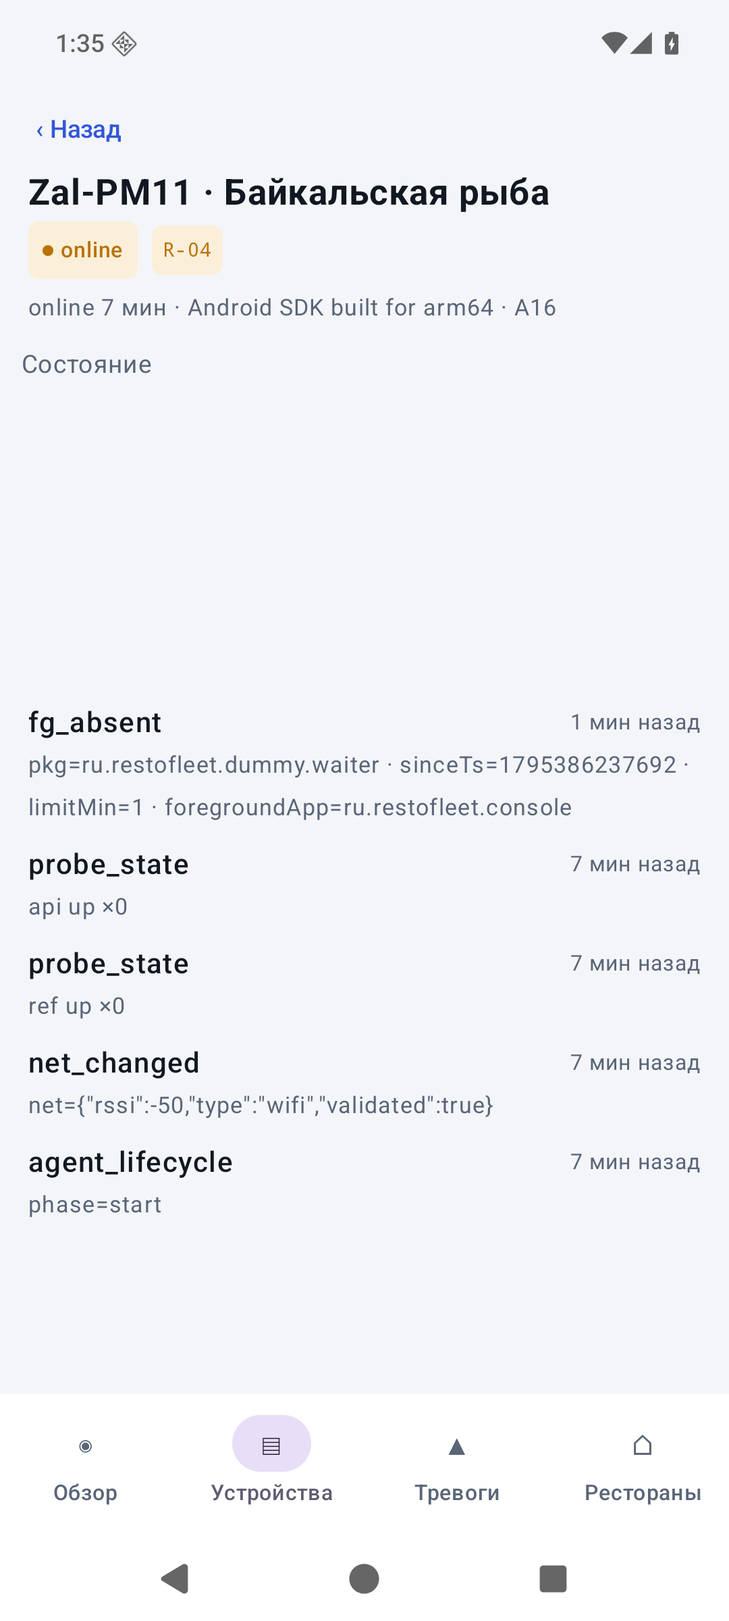
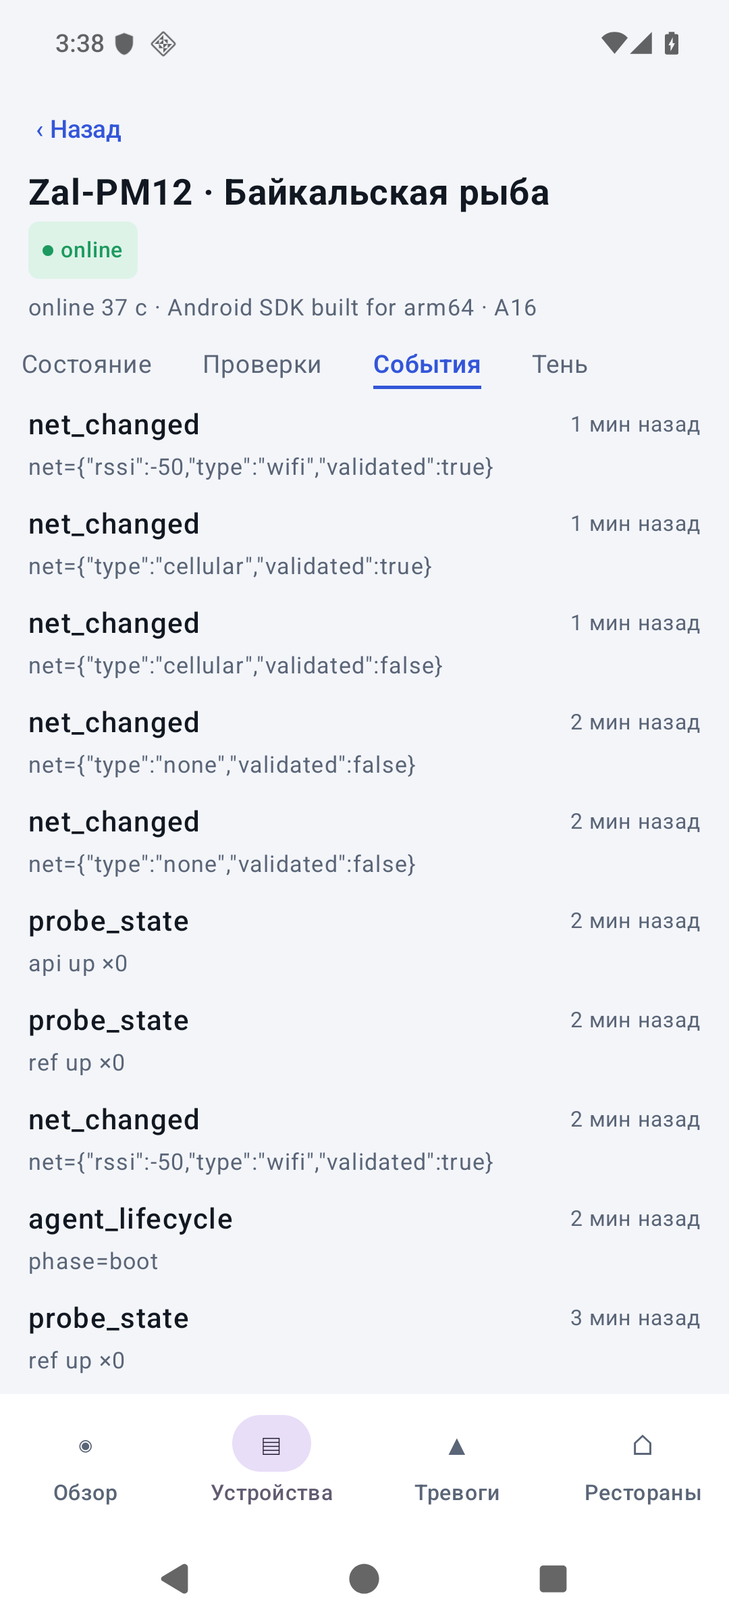
docs(practice): re-verification after PM12 — accuracy 96/96, V-11, V-12, rulings 559-562

diff --git a/docs/reports/2-practice/validation.md b/docs/reports/2-practice/validation.md
@@ -4,7 +4,7 @@
 
 ## Итог
 
-**Не принято без ПМ12.** Бэкенд и агент прошли сценарии на стенде: S8 а/б/в, S2, S3, S5, S6, S7, вход и сессии, WS через nginx с 4401. Точность классификатора по инструменту — **86,5 %, цель 90 % не достигнута**; все 13 ошибок — дефекты оценки и хранения состава инцидента (V-5, V-6), после их устранения пересчёт даёт 93,8 % и 96/96 (реш. 510). Находка 469 на стенде не воспроизвелась. Android-консоль работает через REST, но в живой среде найдены три Critical: падение обзора (V-1), WebSocket консоли не подключается ни разу (V-2), вкладки карточки устройства и статусов тревог не видны (V-3). Поэтому «обновление по WS» в консоли не проверено, а S1–S7 пройдены из консоли с обходами (перезапуск приложения, нажатие невидимых вкладок по координатам).
+**Не принято без ПМ12** (после ПМ12 — см. «Перепроверка после ПМ12»: Critical V-1…V-3 закрыты, точность второго прогона 100 %). Бэкенд и агент прошли сценарии на стенде: S8 а/б/в, S2, S3, S5, S6, S7, вход и сессии, WS через nginx с 4401. Точность классификатора по инструменту — **86,5 %, цель 90 % не достигнута**; все 13 ошибок — дефекты оценки и хранения состава инцидента (V-5, V-6), после их устранения пересчёт даёт 93,8 % и 96/96 (реш. 510). Находка 469 на стенде не воспроизвелась. Android-консоль работает через REST, но в живой среде найдены три Critical: падение обзора (V-1), WebSocket консоли не подключается ни разу (V-2), вкладки карточки устройства и статусов тревог не видны (V-3). Поэтому «обновление по WS» в консоли не проверено, а S1–S7 пройдены из консоли с обходами (перезапуск приложения, нажатие невидимых вкладок по координатам).
 
 ## Результаты
 
@@ -96,6 +96,52 @@
 
 `docs/reports/2-practice/img/`: `p-android-01-login`, `02-dashboard-r08`, `02b-dashboard-accuracy`, `03-incidents`, `03b-incidents-accuracy`, `04-incident-r08`, `04b-incident-r09`, `05-provisioning-code` (код закрашен), `06-devices`, `07-device-state`, `08-shadow`, `09-shadow-applied`, `10-events`, `11-checks`, `12-commands`, `13-alerts`, `14-alerts-resolved-auto`, `15-alert-resolve-dialog`, `16-restaurants`, `17-command-expired`, `18-agent-status`; `p-desktop-01-login`. В `docs/practice/img/` не копировались — выбор для отчёта делает ПМ13.
 
+## Перепроверка после ПМ12
+
+HEAD `5bcd6cd` (исправления `P-fixes.md`, гейт rc=0). Только шаги, затронутые исправлениями; находка 469 не повторялась. Стенд пересобран: `prepare-stand.sh` (образ бэкенда) rc=0, образ симулятора rc=0, `up --wait` rc=0; консоль пересобрана, агент в ПМ12 не менялся. Агент `Zal2-PM11` (порт 18883) удалён, вместо него из консоли зарегистрирован `Zal-PM12` (NSK-02, «Зал», брокер `10.0.2.2:8883`). Решения — 559–561.
+
+| Шаг | Исправление | Результат | Цифры и факты |
+|---|---|---|---|
+| R1 миграция V4 | RV-4 | ✅ | `migrate` при подъёме: «Successfully applied 1 migration … now at version v4»; `flyway_schema_history` — 1…4, все `success`; `refresh_tokens.rotated_from uuid` |
+| R2 `test-backend.sh` | V-10 | ❌ **V-11** / ✅ V-10 | оригинал падает оба раза на шаге 2a «повтор погашенного refresh не 401» (скрипт ждёт 401 сразу, а RV-4 даёт 60 с); временная копия вне репозитория с паузой 61 с перед повтором — 24/24 PASS дважды, после двух прогонов один ресторан `SMOKE` (11 старых `SMOKE-*` не трогались) |
+| R3 refresh | RV-4 | ✅ | сессия A: refresh 200 → повтор старого в окне 200 → новейший 200; сессия B того же `support` при этом — 200; сессия C: повтор через 62 с → 401, свежий C → 401, а также A и B → 401 (отозваны все refresh пользователя) |
+| R4 WS консоли | V-2, RV-2, RV-3, RV-13 | ✅ | upgrade `101 Switching Protocols`, ни одного 400/401 на `/api/v1/ws`; обзор («Ресторанов с проблемами» 0 → 12 и строки R-08), «Открытые» тревоги (R-01 за ≤ 6 с), список устройств — без перезапуска; режим полёта: карточка открыта и закрыта 3 раза — без падений, после возврата сети WS снова 101, телеметрия идёт; после 4401 в 03:50:18 — ровно один `POST /auth/refresh` и сразу 101. Отозванный refresh при запуске → экран входа |
+| R5 обзор | V-1 | ✅ | две R-01 `Zal-PM12` в 03:34:48 и 03:35:06 → перезапуск консоли: процесс жив, `FATAL` 0, в «Последних событиях» видны все строки R-01 устройства |
+| R6 вкладки | V-3 | ✅ | «Состояние · Проверки · События · Тень» и «Открытые · Подтв. · Закрытые» видны и открываются касанием; снимки пересняты |
+| R7 тень | S4, V-4 | ✅ | интервал 30 → 60 → «Сохранить» 03:39:25; через ≤ 5 с без повторного открытия: `desired v2 · reported v2 · delta пуста`, «Применено на устройстве» |
+| R8 S8-а | RV-1, V-6, RV-5 | ✅ | `s8-a`: один R-08, 12/12; во «Открытых» тревог нет при 72 подавленных R-05; R-08 раунда 2 `accuracy` подтверждён из консоли с комментарием в 03:46:28, закрыт в 03:46:31 — `ackBy=support` и комментарий целы после закрытия и двух следующих тиков; у закрытых R-08 — 12 ресторанов |
+| R9 тревога | RV-5 | ✅ | R-01 `Zal-PM12` подтверждена с комментарием (через API от `support`, реш. 559) → два тика → агент вернулся → `resolved`, `auto=true`, `ackBy=support`, комментарий сохранён; в «Закрытых» — метка «авто» |
+| R10 парк S8 | V-9 | ✅ с оговоркой | 72 прежних устройства S8 удалены через API (иначе 72 офлайн в тех же ресторанах → R-07), кэш удалён; `prepare` → `registered=60 failed=12` (429: лимит провижининга стенда 60/мин, **V-12**), повторный `prepare` → `cached=60 registered=12` → 6 × 12 |
+| R11 точность | V-5, V-6 | ✅ **96/96 = 100 %** | второй полный прогон 40 мин (03:37:33–04:19:11, сид 428, 72 устройства по 6 в 12 ресторанах), `accuracy.py` с допуском только вперёд; все 5 глобальных инцидентов хранят 12 ресторанов; отдельный результат — 86,5 % первого прогона ПМ11 не переписывается (реш. 510, 562) |
+
+Матрица второго прогона (`docs/experiments/incidents/accuracy.md`, эталон `truth-accuracy-1795394254446.csv`):
+
+| эталон \\ результат | backend_global | backend_local | restaurant_network | device | none |
+|---|---|---|---|---|---|
+| backend_global | 60 | 0 | 0 | 0 | 0 |
+| backend_local | 0 | 6 | 0 | 0 | 0 |
+| restaurant_network | 0 | 0 | 3 | 0 | 0 |
+| device | 0 | 0 | 0 | 3 | 0 |
+| none | 0 | 0 | 0 | 0 | 24 |
+
+| Прогон | Когда | Инструмент | Точность |
+|---|---|---|---|
+| 1 (ПМ11) | 01:56–02:38 | допуск ±3 мин, состав сужался | 83/96 = 86,5 % |
+| 2 (после ПМ12) | 03:37–04:19 | допуск только вперёд (V-5), состав накапливается (V-6) | 96/96 = 100 % |
+
+Задержка открытия глобальных R-08 — 57–60 с от начала отказа, закрытие — через 2,5 мин после начала (как в прогоне 1).
+
+**Новые находки**
+
+| # | Уровень | Где | Что | Шаги воспроизведения |
+|---|---|---|---|---|
+| V-11 | Important | `deploy/test-backend.sh`, шаг 2a (строки 89–91) | Smoke стенда красный после RV-4: проверка ждёт 401 на немедленный повтор погашенного refresh, а сервер по реш. окна прощения отвечает 200 в течение 60 с. Блоки после 2a (в том числе `SMOKE` из V-10) не выполняются. Поведение сервера верное — устарел скрипт | `./test-backend.sh` → `FAIL: повтор погашенного refresh не 401`; с `sleep 61` перед строкой 89 — 24/24 |
+| V-12 | Minor | `run-accuracy.sh prepare` / `RegisterDevices` | Регистрация парка с нуля превышает лимит провижининга стенда (`RF_RATELIMIT_PROVISIONPERMINUTE=60`): 12 из 72 — 429, без повтора; дорегистрация повторным `prepare` через минуту закрывает слоты | удалить `creds-s8.jsonl` (и устройства S8) → `prepare` → `failed=12`; через 60 с `prepare` → `registered=12` |
+
+**Наблюдения:** удалённые устройства остаются в списке консоли со статусом `decommissioned` (первыми при поиске `S8-0`), в классификатор не попадают (`s8-a` 12/12); поле комментария карточки инцидента многострочное — Enter экранной клавиатуры добавляет перевод строки, а не отправляет.
+
+**Снимки** (пересняты на исправленной сборке, прежние имена): `p-android-02-dashboard-r08`, `03-incidents`, `04-incident-r08`, `04b-incident-r09`, `06-devices`, `07-device-state`, `08-shadow`, `09-shadow-applied`, `10-events`, `11-checks`, `13-alerts`, `14-alerts-resolved-auto`, `15-alert-resolve-dialog` — все кадры рисунков 4.1–4.2 (`tools/practice/figures.py`: `console-main`, `console-alerts`, `console-incidents`). Остальные снимки ПМ11 не менялись.
+
 ## Прогресс
 
 - 23.11 01:05 — прочитаны план ПМ11, приёмка (разд. 7), Rulings 405, 427, 428, 462, 469, разделы «Что проверить» `P-backend.md`/`P-console.md`, README стенда, консоли, эмуляторов. Свободно 28 ГБ.
@@ -120,3 +166,4 @@
 - 02:41–02:42 — находка 469: агент остановлен, ping в 02:41:33 (`queued`), `docker compose restart mosquitto` в 02:41:36, бэкенд переподключился (`/health` broker true), агент запущен в 02:42:12 → `delivered`/`succeeded` в 02:42:14. **На стенде очередь QoS 1 офлайн-устройства рестарт брокера пережила** — потеря из Testcontainers-теста не воспроизвелась.
 - 02:43–02:47 — S2: бэкенд пересоздан с `RF_PROVISIONING_BROKERPORT=18883`, `Zal-PM11` удалён, агент сброшен и зарегистрирован заново из консоли (`Zal2-PM11`, брокер `10.0.2.2:18883`). Токсик `timeout` в обе стороны → R-01 через 28 с; снят → автозакрытие через 5 с. Бэкенд возвращён к умолчаниям (`RF_PROVISIONING_BROKERPORT=8883`), Toxiproxy без токсиков.
 - 02:48 — `logcat` за всю сессию: коды 0, пароль `support` 0, JWT 0, `refreshToken` 0. Эмулятор остановлен (`emu kill`). Созданные документы и PNG: совпадений с секретами 0. Стенд оставлен запущенным (агент `Zal2-PM11` остаётся с портом 18883 — Toxiproxy без токсиков).
+- 03:15–04:20 — перепроверка после ПМ12 (HEAD `5bcd6cd`): R1 ✅, R2 ❌ V-11 (V-10 ✅ на копии скрипта), R3 ✅, R4 ✅, R5 ✅, R6 ✅, R7 ✅, R8 ✅, R9 ✅, R10 ✅ (V-12), R11 ✅ 96/96. `logcat`: код 0, пароль 0, JWT 0. Эмулятор остановлен; стенд запущен, агент `Zal-PM12` на порту 8883, Toxiproxy без токсиков.

diff --git a/docs/reports/2-practice/decisions.md b/docs/reports/2-practice/decisions.md
@@ -165,3 +165,7 @@
 | 538 | ПМ12, V-6: состав глобального инцидента сужался, закрытый хранил последние рестораны | **`incidents.restaurants` — охват за время жизни** (объединение затронутых ресторанов): совпавший глобальный инцидент добавляет новые рестораны и не теряет восстановившиеся. «Затронуты сейчас» — в доказательствах последнего тика (`evidence.restaurants`); по ним строится сводка («Рестораны с проблемами»), чтобы восстановившийся ресторан не висел в обзоре. Подавление по-прежнему по `restaurants`: R-05 `api` ресторана, вернувшегося во время глобального отказа, подавляется тем же инцидентом (тот же отказ). Локальные инциденты совпадают только при равном составе — для них ничего не меняется | Хранить отдельный столбец охвата (миграция, второй источник правды); сужать состав, а охват считать по дочерним тревогам (у восстановившихся ресторанов тревог может не быть) | Карточка в консоли показывает 12 ресторанов для S8-а с восстановлением в разные тики, оценка точности видит весь охват. Тест `IncidentLifecycleTest` (12 → 6 восстановились → закрыт с 12, сводка — 6) |
 | 539 | ПМ12, V-1…V-4 консоли | V-1: ключ строки — id тревоги, у «проблем» — ресторан, правило, цель и устройство; повтор получает суффикс `#n` (Compose падает на любом повторе ключа). V-2 — тот же дефект, что RV-2 (реш. 533): сервер видел `Bearer X,Bearer X` и отвечал 400; теперь в upgrade ровно одно значение (`KtorWsConnectorTest`), а 400 и прочие отказы ведут в backoff. V-3: ширина вкладки `RfTabs` — по заголовку (`IntrinsicSize.Max`), строка прокручивается. V-4: события тени в WS нет, поэтому после сохранения тень перечитывается каждые 3 с, пока `pending`, не дольше 60 с (`AwaitShadowApplied`) | V-3 — равные веса (длинные заголовки обрезались бы на узком экране); V-4 — событие тени в WS (контракт и сервер — диплом) | Тесты: `DashboardScreenTest` (рендер с повтором ключа без исправления падает), `TabsTest` (без исправления ширина вкладок 0), `ShadowDomainTest`, `ShadowTest` |
 | 540 | ПМ12, Minor валидации | V-9: дорегистрация считает недостающие слоты плана по ресторану и роли (`DevicePlan.missing`), а не по числу учёток. Причина 7/5 по коду — сдвиг слотов после потерянной регистрации в середине (по кэшу стенда не проверялось: в нём пароли); уже перекошенный кэш не чинится — пересоздать `creds-s8.jsonl` (`prepare` после удаления кэша). V-10: `test-backend.sh` использует один ресторан `SMOKE` на все прогоны (409 → id из списка): удаления ресторанов в API нет, а SQL-уборка в обход домена рискованна; 11 старых `SMOKE-*` на стенде убираются вручную. V-7 (ручное обновление списков) и V-8 (поиск ресторана и погашение кода на экране провижининга) — дольше 30 мин (жест на трёх экранах с тестами; опрос статуса кода), отложены в диплом; после V-2 списки обновляются по WS | Удалять ресторан SQL-запросом в конце скрипта; делать V-7, V-8 сейчас | Стенд перестаёт копить рестораны; парк S8 после пересоздания кэша — по 6 устройств |
+| 559 | Перепроверка ПМ12, RV-5: нужно подтвердить тревогу **с комментарием** и дождаться автозакрытия, а в консоли подтверждение тревоги — свайп без комментария (FR-CN-08; комментарий есть только у закрытия и у подтверждения инцидента) | Тревога R-01 подтверждена через `PATCH /alerts/{id}` под `support` с комментарием, результат смотрится в API и во вкладке «Закрытые» консоли; подтверждение с комментарием из консоли проверено на инциденте R-08 | Считать RV-5 проверенным только без комментария; добавлять поле в UI (код в перепроверке не правится) | Проверен именно путь гонки «ручное подтверждение ↔ автозакрытие тика»; UI-поля комментария у подтверждения тревоги нет — так задумано, не дефект |
+| 560 | Перепроверка ПМ12, V-10: `deploy/test-backend.sh` падает на шаге 2a раньше блока `SMOKE` — после RV-4 немедленный повтор погашенного refresh даёт 200 (окно 60 с), а скрипт ждёт 401 | Скрипт в репозитории не правится; дефект записан как V-11 (Important). Для проверки V-10 и остального smoke запущена временная копия вне репозитория (`cd` на `deploy/` и `sleep 61` перед строкой 89) — 24/24 дважды, один `SMOKE` | Править скрипт сейчас; считать V-10 непроверенным | V-10 подтверждён; ПМ12/ПМ13 исправляет строки 89–91 (пауза > 60 с или проверка 200 в окне + 401 вне окна) |
+| 561 | Перепроверка ПМ12, V-9: удаление `creds-s8.jsonl` без удаления устройств оставило бы на стенде 72 прежних устройства S8 офлайн в тех же ресторанах → ≥ 50 % офлайн и R-07 во всех 12 | Перед удалением кэша 72 прежних устройства удалены `DELETE /devices/{id}` по `deviceId` из кэша (пароли не читались), затем `prepare`; 12 отказов 429 закрыты повторным `prepare` через минуту (V-12, Minor) | Удалять только кэш; поднять лимит провижининга в `.env` | Парк — ровно 6 × 12; удалённые устройства видны в консоли как `decommissioned` и в классификатор не входят |
+| 562 | Перепроверка ПМ12, R11: второй прогон точности | Полные 40 мин, тот же сценарий `accuracy` (сид 428), что в ПМ11, при тех же условиях: эмулятор в NSK-02 (вне эталона, N = 13, M = 4), Android-шаги параллельно. Записывается отдельным результатом рядом с 86,5 % ПМ11 (реш. 510), отчёт `docs/experiments/incidents/accuracy.md` перезаписан вторым прогоном — числа первого сохранены в `validation.md` | Остановить эмулятор на время прогона; сократить прогон | Прогоны сравнимы; первый результат не переписывается |

diff --git a/swarm-report/practice-e2e-scenario.md b/swarm-report/practice-e2e-scenario.md
@@ -48,3 +48,26 @@
 - [x] 4.1 `docs/reports/2-practice/validation.md`: таблица, матрица, V-n, не проверено ✅
 - [x] 4.2 Rulings 510+ (если были неоднозначности) ✅ (510–513)
 - [x] 4.3 утечки секретов в созданных файлах — 0 (числом) ✅ (0)
+
+# Перепроверка после ПМ12 (HEAD `5bcd6cd`)
+Только шаги, затронутые исправлениями (`P-fixes.md`, «Перепроверить»). Перед каждым действием файл перечитывается.
+
+## R0. Стенд и сборки
+- [x] R0.1 `df -h .` ≥ 15 ГБ; `prepare-stand.sh` (образ бэкенда) rc=0; образ симулятора rc=0 ✅ (29 ГБ; rc=0, rc=0)
+- [x] R0.2 `docker compose --profile dev up -d --wait` rc=0 (migrate применяет V4) ✅
+- [x] R0.3 APK консоли и агента из HEAD ✅ (консоль пересобрана; агент не менялся)
+- [x] R0.4 эмулятор; агент заново зарегистрирован из консоли на порт по умолчанию 8883 (вместо `Zal2-PM11`/18883) ✅ (`Zal-PM12`, NSK-02, `10.0.2.2:8883`; `Zal2-PM11` удалён)
+
+## R. Шаги
+- [x] R1 миграция V4: версия 4 в `flyway_schema_history`, столбец `refresh_tokens.rotated_from` ✅ (v4 `refresh rotated from`, `rotated_from uuid`)
+- [x] R2 V-10: два прогона `test-backend.sh` подряд PASS; новых `SMOKE` — один (старые `SMOKE-*` не трогать) ❌ V-11 (оригинал падает на шаге 2a — ждёт 401 без паузы); копия с паузой 61 с: 24/24 ×2, `SMOKE` один ✅
+- [x] R3 RV-4: повтор старого refresh в ≤ 60 с → 200, вторая сессия жива; повтор после > 60 с → 401 и отзыв ✅ (≤ 60 с → 200, вторая сессия 200; 62 с → 401, свежий и другие сессии 401)
+- [x] R4 V-2/RV-2/RV-3/RV-13: WS upgrade 101 без 400/401 (`RfConsoleHttp`); обзор и тревоги обновляются без перезапуска; без сети открыть/закрыть карточку — не падает; один `POST /auth/refresh` за 15 мин ✅ (upgrade 101, 400/401 — 0; обзор, тревоги, устройства обновляются сами; режим полёта ×3 — без падений, после сети 101; после 4401 один refresh в 03:50:18)
+- [x] R5 V-1: две R-01 одного устройства за минуту → обзор не падает, обе строки видны ✅ (R-01 03:34:48 и 03:35:06; обзор не падает, строки видны)
+- [x] R6 V-3: вкладки «Проверки», «События», «Тень», «Подтверждённые», «Закрытые» открываются касанием; снимки переcняты ✅ (все вкладки касанием; снимки 07, 08, 09, 10, 11, 14 пересняты)
+- [x] R7 S4/V-4: после «Сохранить» экран сам показывает «Применено», `delta пуста` ✅ (≤ 5 с после «Сохранить»)
+- [x] R8 S8-а: нет подавленных R-05 в «Открытых»; ack R-08 с комментарием переживает два тика; закрытый инцидент — 12 ресторанов ✅ (`s8-a` 12/12; «Открытые» пусты при 72 подавленных R-05; ack R-08 с комментарием в 03:46:28 цел после закрытия и двух тиков; закрытый — 12 ресторанов)
+- [x] R9 RV-5: подтверждённая тревога после автозакрытия сохраняет автора и комментарий, метка «авто» ✅ (ack через API с комментарием, после двух тиков и автозакрытия автор и комментарий целы, `auto=true`)
+- [x] R10 V-9: старые устройства S8 удалены, кэш удалён, `prepare` → по 6 устройств в 12 ресторанах ✅ (72 старых удалены; `prepare` 60 + 12 со второго прохода из-за 429 — V-12; 6 × 12)
+- [x] R11 новый полный прогон `accuracy` 40 мин — отдельный результат с матрицей ✅ (96/96 = 100 %, 5 глобальных — по 12 ресторанов)
+- [x] R12 эмулятор остановлен; утечки 0; `validation.md` обновлён ✅ (`logcat` 0; эмулятор остановлен)

diff --git a/docs/experiments/incidents/accuracy.md b/docs/experiments/incidents/accuracy.md
@@ -1,18 +1,18 @@
-# Точность классификатора: truth-accuracy-1795388188560
+# Точность классификатора: truth-accuracy-1795394254446
 
-Случаев: 96, верно: 83, точность: **86.5 %** (цель ≥ 90 %).
+Случаев: 96, верно: 96, точность: **100.0 %** (цель ≥ 90 %).
 
-Допуск по времени — 3 мин; класс `degradation` исключён (R-10 — диплом).
+Допуск по времени — 3 мин после конца эпизода (только вперёд, реш. 537); класс `degradation` исключён (R-10 — диплом).
 
 | эталон \\ результат | backend_global | backend_local | restaurant_network | device | none |
 |---|---|---|---|---|---|
 | backend_global | 60 | 0 | 0 | 0 | 0 |
 | backend_local | 0 | 6 | 0 | 0 | 0 |
 | restaurant_network | 0 | 0 | 3 | 0 | 0 |
-| device | 1 | 1 | 0 | 1 | 0 |
-| none | 8 | 2 | 1 | 0 | 13 |
+| device | 0 | 0 | 0 | 3 | 0 |
+| none | 0 | 0 | 0 | 0 | 24 |
 
 Источники:
-- эталон: `deploy/out/sim/truth-accuracy-1795388188560.csv`
+- эталон: `deploy/out/sim/truth-accuracy-1795394254446.csv`
 - инциденты: `GET /api/v1/incidents`
 - тревоги: `GET /api/v1/alerts?rule=R-01&includeSuppressed=true`

diff --git a/docs/experiments/incidents/s8-a.md b/docs/experiments/incidents/s8-a.md
@@ -1,8 +1,8 @@
-# Точность классификатора: truth-s8-a-1795385791204
+# Точность классификатора: truth-s8-a-1795393687726
 
 Случаев: 12, верно: 12, точность: **100.0 %** (цель ≥ 90 %).
 
-Допуск по времени — 3 мин; класс `degradation` исключён (R-10 — диплом).
+Допуск по времени — 3 мин после конца эпизода (только вперёд, реш. 537); класс `degradation` исключён (R-10 — диплом).
 
 | эталон \\ результат | backend_global | backend_local | restaurant_network | device | none |
 |---|---|---|---|---|---|
@@ -13,6 +13,6 @@
 | none | 0 | 0 | 0 | 0 | 0 |
 
 Источники:
-- эталон: `deploy/out/sim/truth-s8-a-1795385791204.csv`
+- эталон: `deploy/out/sim/truth-s8-a-1795393687726.csv`
 - инциденты: `GET /api/v1/incidents`
 - тревоги: `GET /api/v1/alerts?rule=R-01&includeSuppressed=true`
